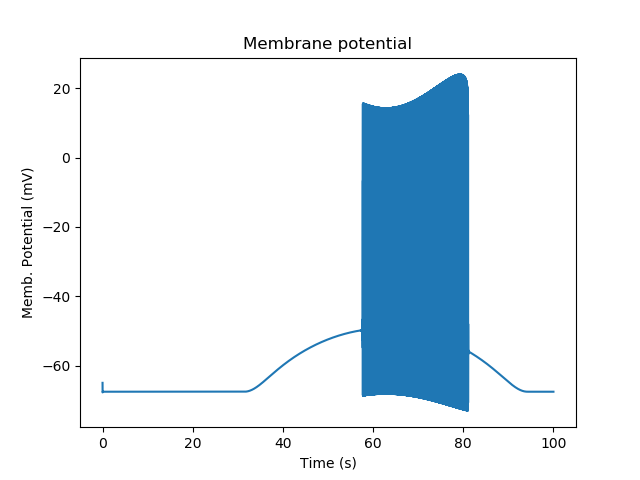
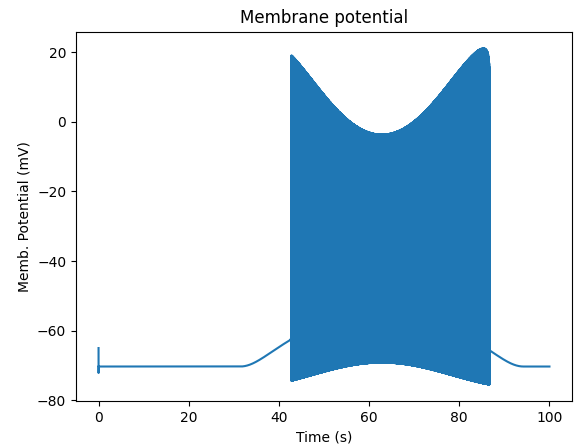
added few corrected graphs and updated rdes.rst

diff --git a/docs/source/user/py/rdesigneur/rdes.rst b/docs/source/user/py/rdesigneur/rdes.rst
@@ -5,9 +5,12 @@ Author: Upi Bhalla
 
 Date: Aug 26 2016,
 
-Last-Updated: Nov 08 2018
-
+Last-Updated: Oct 28 2020
 By: Upi Bhalla
+
+Git commit  : 65720c1d2e0    (moose-core)
+
+Git commit  : 0ea9dd3c43575e (moose-examples)
 
 .. --------------
 
@@ -1004,34 +1007,15 @@ reaction-diffusion system making its way inward from the two ends. After
 the simulation ends the plots for all compartments for the whole run
 come up.
 
-.. figure:: ../../../../images/rdes5_reacdiff.png
-   :alt: Display for oscillatory reaction-diffusion simulation
-
-   Display for oscillatory reaction-diffusion simulation
-
-For those who would rather use the much simpler matplotlib 3-D display option,
-this is what the same simulation looks like:
-
 .. figure:: ../../../../images/ex7.0_spatial_chem_osc.png
    :alt: Display for oscillatory reac-diff simulation using matplotlib
 
    Display for oscillatory reac-diff simulation using matplotlib
 
 
-.. _`moogli primer`:
-
-Primer on using the 3-D MOOGLI display
-~~~~~~~~~~~~~~~~~~~~~~~~~~~~~~~~~~~~~~
-
-There are two variants of the MOOGLI display. The first, named Moogli,
-uses OpenGL and OpenSceneGraph. It is fast to display, slow to load, and
-difficult to compile. It produces much better looking 3-D graphics.
-The second is a fallback interface using mplot3d, which is a library of 
+The interface using mplot3d, which is a library of 
 Matplotlib and so should be generally available. It is slower to display,
-faster to load, but needs no special compilation. It uses stick graphics
-and though it conveys much the same information, isn't as nice to look at
-as the original Moogli. Its controls are more or less the same but less 
-smooth than the original Moogli.
+faster to load, but needs no special compilation.
 
 Here is a short primer on the 3-D display controls.
 
@@ -1118,7 +1102,9 @@ Calcium-induced calcium release
 
 .. _`models of calcium-induced calcium release`:
 
-*ex7.2_CICR.py*
+*ex7.2_CICR.py *
+
+.. Warning ::	With latest moose-core commit `65720c1d2e0eb8` the result from this example is quite differnt as compared to what shown below, this is due to changes in moose-core. We are working towards this. (See the status here: https://github.com/BhallaLab/moose-examples/issues/73)
 
 This is a somewhat more complex reaction-diffusion system, involving calcium
 release from intracellular stores that propagates in a wave of activity along
@@ -1503,13 +1489,13 @@ so it spikes more, so more calcium enters.
         chanDistrib = [
             ['Na', 'soma', 'Gbar', '300' ],
             ['K_DR', 'soma', 'Gbar', '250' ],
-            ['K_A', 'soma', 'Gbar', '200' ],
+            ['K_A', 'soma', 'Gbar', '250' ],
             ['Ca_conc', 'soma', 'tau', '0.0333' ],
             ['Ca', 'soma', 'Gbar', '40' ]
         ],
         adaptorList = [
             [ 'dend/chan', 'conc', 'K_A', 'modulation', 0.0, 70 ],
-            [ 'Ca_conc', 'Ca', 'dend/Ca', 'conc', 0.00008, 2 ]
+            [ 'Ca_conc', 'Ca', 'dend/Ca', 'conc', 0.00008, 0.8 ]
         ],
         # Give a + pulse from 5 to 7s, and a - pulse from 20 to 21.
         stimList = [['soma', '1', '.', 'inject', '((t>5 && t<7) - (t>20 && t<21)) * 1.0e-12' ]],
@@ -1550,11 +1536,11 @@ rather than to directly assign the conductance *'Gbar'*. This is because
 the electrical segment. This makes it difficult to keep track of. *Modulation*
 is a simple multiplier term onto *Gbar*, and is therefore easier to work with.
 
-       ``[ 'Ca_conc', 'Ca', 'dend/Ca', 'conc', 0.00008, 2 ]``:
+       ``[ 'Ca_conc', 'Ca', 'dend/Ca', 'conc', 0.00008, 0.8 ]``:
 
 Use the concentration of *Ca* as computed in the electrical model, to assign
 the concentration of molecule *Ca* on the dendrite compartment. There is a
-basal level of 80 nanomolar, and every unit of electrical *Ca* maps to 2 
+basal level of 80 nanomolar, and every unit of electrical *Ca* maps to 0.8 
 millimolar of chemical *Ca*.
 
 The arguments in the adaptorList are:
@@ -1650,6 +1636,8 @@ Multiscale model of CICR in dendrite triggered by synaptic input
 ~~~~~~~~~~~~~~~~~~~~~~~~~~~~~~~~~~~~~~~~~~~~~~~~~~~~~~~~~~~~~~~~
 
 *ex8.1_synTrigCICR.py*
+
+.. Warning ::	With latest moose-core commit `65720c1d2e0eb8` the result from this example is quite differnt as compared to what shown below, this is due to changes in moose-core. We are working towards this. (See the status here: https://github.com/BhallaLab/moose-examples/issues/74)
 
 In this model synaptic input arrives at a dendritic spine, leading to calcium
 influx through the NMDA receptor. An adaptor converts this influx to the 
@@ -1763,6 +1751,8 @@ Multiscale model spanning PSD, spine head and dendrite
 ~~~~~~~~~~~~~~~~~~~~~~~~~~~~~~~~~~~~~~~~~~~~~~~~~~~~~~
 
 *ex8.2_multiscale_glurR_phosph_3compt.py*
+
+.. Warning ::	With latest moose-core commit `65720c1d2e0eb8` the result from this example is quite differnt as compared to what shown below, this is due to changes in moose-core. We are working towards this. (See the status here: https://github.com/BhallaLab/moose-examples/issues/74)
 
 This is another multiscale model on similar lines to 8.0. It is structurally
 and computationally more complicated, because the action is distributed between
@@ -1909,6 +1899,8 @@ Multiscale model in which spine geometry changes due to signaling
 ~~~~~~~~~~~~~~~~~~~~~~~~~~~~~~~~~~~~~~~~~~~~~~~~~~~~~~~~~~~~~~~~~
 
 *ex8.3_spine_vol_change.py*
+
+.. Warning ::	With latest moose-core commit `65720c1d2e0eb8` getting runtime error with valueFinfo error. We are working towards this. (See the status here: https://github.com/BhallaLab/moose-examples/issues/75)
 
 This model is very similar to 8.2. The main design difference is that 
 *adaptor*, instead of just modulating the gluR conductance, scales the 
